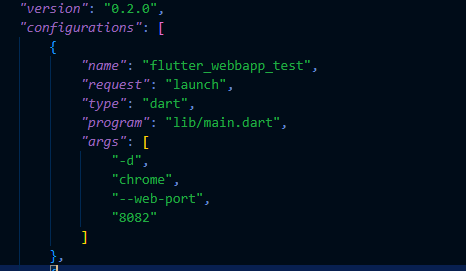
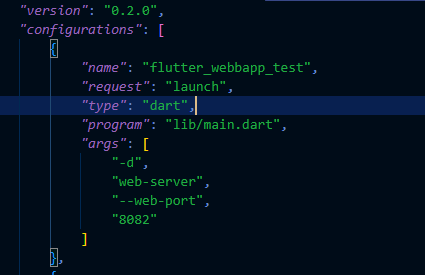
Added reflection and third alt

diff --git a/lib/main.dart b/lib/main.dart
@@ -29,7 +29,7 @@ class MyApp extends StatelessWidget {
         // This works for code too, not just values: Most code changes can be
         // tested with just a hot reload.
         colorScheme: ColorScheme.fromSeed(
-            seedColor: const Color.fromARGB(255, 61, 182, 97)),
+            seedColor: const Color.fromARGB(255, 61, 182, 67)),
         useMaterial3: true,
       ),
       home: const MyHomePage(title: 'Flutter Demo Home Page'),

diff --git a/README.md b/README.md
@@ -28,50 +28,69 @@ I VS Code installerar du exstentions för Flutter och Dart.
 
 ## Starta ett Flutter-projekt
 
-- Starta VS Code via ubuntu/linuxterminal
-- Välj Commando palette eller tryck på ctrl+shift+p
-- Välj Flutter: New project
-- Du får flera olika appliaktioner att välja bland, jag rekommenderar "Application" eller "Empty Application". Application ger en hel app med testning och kommentarer, kommentarerna kan vara en bra hjälp på vägen. Vill du ha en mindre app och bara se att allt fungerr välj Empty Application.
-- Projektet startas i mappen du stod i när du öppnade VS Code.
-- Det kan ta en liten stund att starta projektet då det är många filer som ska skapas.
-- När allt är fördigt har du flera olika mappar och filer. Den viktigaste just nu är lib/main.dart. Där ligger all kod till din app.
-- Starta debug och välj Google Chrome bland Avaiable devices när du får frågan.
-- Debuggen tar också en stund att starta och flera portar kommer att öppnas. Du får ett meddelande om att din app hör öppnats i en autogenererad port via VS Code.
-- Öppna  ett fönster med rätt port och starta Dart Debug genom att trycka på iconen och välja "Open Devtools".
-- Nu ska du se en web app med en räknare som ökar i antal när du trycker på plus-knappen.
-- För att se att du kan uppdatera din app kan du prova byta färgtema i main.dart. Det som är speciellt med Flutter är att ändringarna i din app sker i realtid utan att du behöver ladda om sidan eller starta om debuggen. Prova byta färg några gånger och se hur appen byter utseende. 
-- Om det inte uppdateras som det ska kan du prova trycka på den lilla blixten, "Hot Reload", i debug menyn, då ska uppdateringen gå igenom.
+1. Starta VS Code via ubuntu/linuxterminal
+2. Välj Commando palette eller tryck på ctrl+shift+p
+3. Välj Flutter: New project
+4. Du får flera olika appliaktioner att välja bland, jag rekommenderar "Application" eller "Empty Application". Application ger en hel app med testning och kommentarer, kommentarerna kan vara en bra hjälp på vägen. Vill du ha en mindre app och bara se att allt fungerr välj Empty Application.
+5. Projektet startas i mappen du stod i när du öppnade VS Code.
+6. Det kan ta en liten stund att starta projektet då det är många filer som ska skapas.
+7. När allt är fördigt har du flera olika mappar och filer. Den viktigaste just nu är lib/main.dart. Där ligger all kod till din app.
+8. Starta debug och välj Google Chrome bland Avaiable devices när du får frågan.
+9. Debuggen tar också en stund att starta och flera portar kommer att öppnas. Du får ett meddelande om att din app hör öppnats i en autogenererad port via VS Code.
+10. Öppna  ett fönster med rätt port och starta Dart Debug genom att trycka på iconen och välja "Open Devtools".
+11. Nu ska du se en web app med en räknare som ökar i antal när du trycker på plus-knappen.
+12. För att se att du kan uppdatera din app kan du prova byta färgtema i main.dart. Det som är speciellt med Flutter är att ändringarna i din app sker i realtid utan att du behöver ladda om sidan eller starta om debuggen. Prova byta färg några gånger och se hur appen byter utseende. 
+13. Om det inte uppdateras som det ska kan du prova trycka på den lilla blixten, "Hot Reload", i debug menyn, då ska uppdateringen gå igenom.
 
 ## Välj port för utveckling
 
 Varje gång flutter startar en debug session så används en ny autogenererad port. När man bara ska utveckla en ensam applikation är det inte något problem, men när kopplingar ska göras med backend eller andra system så är det bra att veta vilken port appen kommer öppnas på och att det är samma varje gång.
 
-Det finns två sätt att göra det här på som jag provade, varav ett fungerade för mig.
+Det finns tre sätt att göra det här på som jag provade med olika resultat.
 
 ### Alt 1: Med en launch.json-fil
 
 Det här alternativet fungerade inte för mig, men är bra att känna till om man vill kunna styra andra detaljer kring debugging eller hur appen startas. Mer information finns [här](https://dartcode.org/docs/launch-configuration/).
 
-- Under degugg-iconen i menyn längst till vänster finns en knapp "Create a launch.json-file".
-- Nu ska en ny mapp, ".vscode", dykt upp balnd dina filer, under den ligger "launch.json". Du kan se ett exempel i det här repot på hur det ser ut.
-- Under den första konfiguartionen lägger du till följande:
-`"args": ["-d", "chrome", "--web-port", "8082" ]`
-- Det sista argumenet är den port du önskar att din app startar på och kan vara vilken port som helst som passar dig bäst.
-- Om du nu startar en debug session så ska appen starta på din valda port.
+1. Under degugg-iconen i menyn längst till vänster finns en knapp "Create a launch.json-file".
+2. Nu ska en ny mapp, ".vscode", dykt upp balnd dina filer, under den ligger "launch.json". Du kan se ett exempel i det här repot på hur det ser ut.
+3. Under den första konfiguartionen lägger du till följande:
+`"args": ["-d", "web-server", "--web-port", "8082" ]`
+4. Det sista argumenet är den port du önskar att din app startar på och kan vara vilken port som helst som passar dig bäst.
+5. Om du nu startar en debug session så ska appen starta på din valda port.
 
+byt bild
 ![launchfilens utseende](/assets/launch-file.png)
 
 ### Alt 2: Inställning i VS Code
 
 Den här inställningen fungerade för mig, men den gäller för alla flutter-appar som startas i VS Code. Så om du har flera flutter-projekt igång så kommer alla startas på samma port.
 
-- Gå in på "Inställningar/Settings" i VS Code.
-- Sök efter "Dart: Flutter Run Additional Args"
-- Skriv in `--web-port=8082` eller din önskade port i fältet.
-- Klicka på "Add item"
-- Starta en ny debugg session och appen startar på din valda port
+1. Gå in på "Inställningar/Settings" i VS Code.
+2. Sök efter "Dart: Flutter Run Additional Args"
+3. Skriv in `--web-port=8082` eller din önskade port i fältet.
+4. Klicka på "Add item"
+5. Starta en ny debugg session och appen startar på din valda port.
  
  ![Add item vyn](/assets/add-item.png)
+
+ ### Alt 3: Kommando i terminalen
+
+Du kan också starta en debug session i terminalen. Nackdelen är att du inte får upp debugkontrollpanelen där Hot reload-knappen finns utan måste köra alla kommandon fortsatt i terminalen. För att göra en Hot reload i terminalen används kommandot "r" eller "R". Fördelen är att du kan byta åprt när du vill utan att behöva göra några inställningar. Det här allternativet fungerar också bra om appen ska öppnas via ett script eller liknande. 
+
+1. Öpnna en terminal och gå till mappen där ditt flutter-projekt finns. 
+2. Skriv in förkjande kommand o med den port du vill använda 
+`flutter run -d web-server --web-port 8082`
+3. Nu startas en debug session på den port du angav.
+
+För mig fungerade inte Hot reload som det skulle när jag staratde appen via terminalen utan jag var tvungen att ladda om möntsret där appen var. Det är något som Flutter har varnat för när man gör webapplikationer att just Hot relaod inte alltid funkar på det sätt som det gör mas andra typer av appar.
+
+## Reflektioner
+
+Flutter är främst utvecklat för att köras som native appar men har blivit bättre att även använda som webbapplikationer både för stor och liten skärm. Det var spännande att se att de olika lösningarna gav olika resulatat och hade olika för- och nackdelar. Jag kommer att använda alternativ 2 så länge och göra några till försök att få till launch-file. Det borde vara det bästa sättet när det väl funkar. 
+
+
+ 
 
 ## Källor
 
